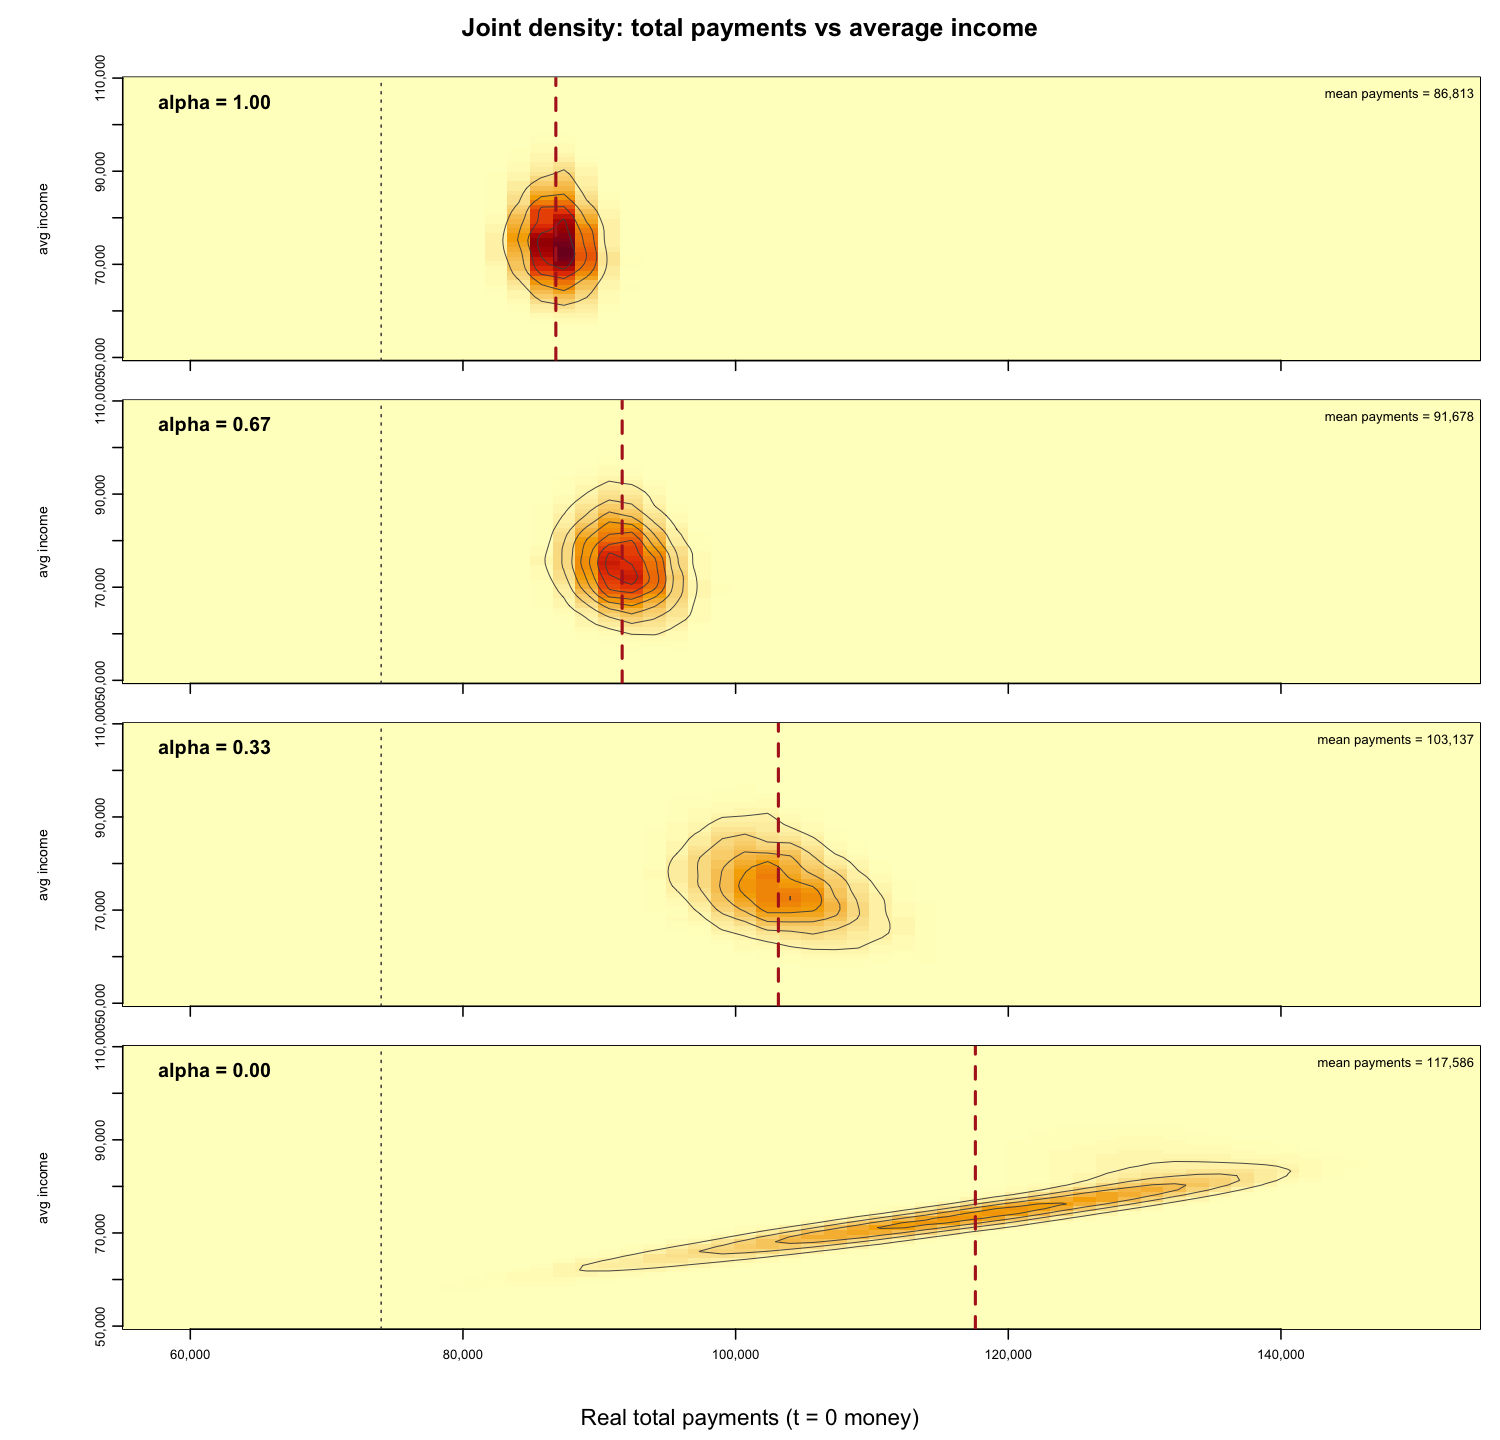
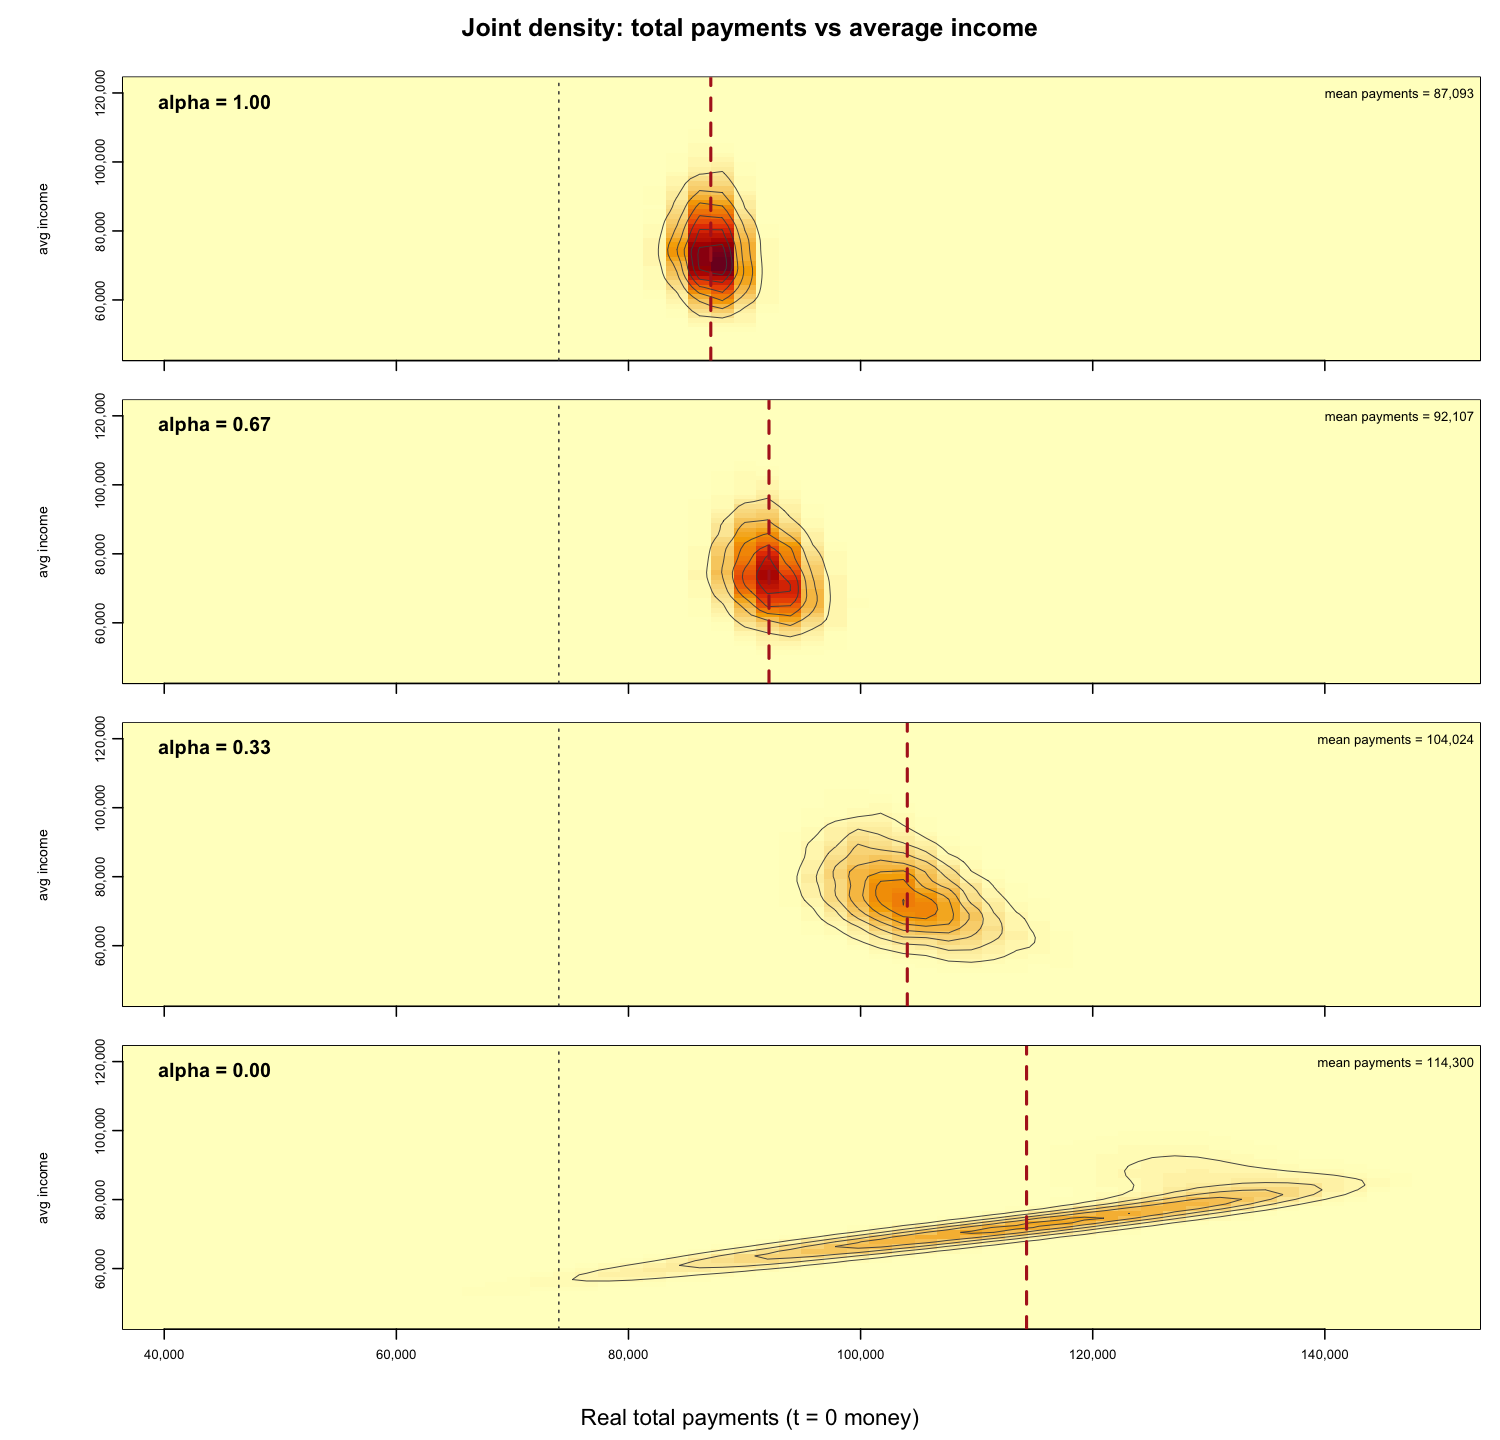
Add Schroedinger's Debt post

diff --git a/_posts/2026-10-18-schroedingers-debt.md b/_posts/2026-10-18-schroedingers-debt.md
@@ -11,7 +11,21 @@ output:
 
 ## Intro
 
-Your introduction here…
+When Erwin Schroedinger studied Physics at the early 20th century in
+Vienna, tuition fees, or what at the time was known as “Kollegiengeld”,
+for what would be the equivalent of today’s integrated master’s degree
+amounted to around 3’000 EUR - 5’000 EUR (inflation adjusted). Despite
+the Habsburg empire already nearing the later stages of its later
+decline, public finances still stretched far enough to make higher
+education accessible. Had he however been born between 1994 and 2003 in
+England, he would not been privy to the same priviledges and most likely
+would have been forced to become a recipient of the UK government’s Plan
+2 student loan.
+
+Upon completion of his studies he would have found himself in a similar
+situation to many graduates in England and Wales confronted with the
+deceptively simple question: should he pay off the loan as quickly as
+possible, or pay the minimum in accordance with his Plan 2 agreement?
 
 <figure>
 <img
@@ -119,21 +133,21 @@ Sensitivity of the results to the model parameters, by alpha.
 
 **Table 1**: Local sensitivity analysis (α = 0.67)
 
-| Indicator             |   Baseline | Sensitivity | per +1pp rho | per +1 yr T | per +5,000 I0 | per +10,000 down | per +0.5pp sav_rate | elast theta0 | elast rho0 | elast T | elast I0 | elast down | elast sav |
-|:----------------------|-----------:|------------:|-------------:|------------:|--------------:|-----------------:|--------------------:|-------------:|-----------:|--------:|---------:|-----------:|----------:|
-| mean_real_payments    |  89571.057 |      58.565 |     -200.280 |       0.000 |      -907.552 |        -1888.853 |                0.00 |        0.019 |     -0.020 |   0.000 |   -0.133 |     -0.011 |     0.000 |
-| p05_real_payments     |  85699.975 |      50.848 |     -168.567 |       0.000 |      -756.290 |        -1478.175 |                0.00 |        0.017 |     -0.018 |   0.000 |   -0.116 |     -0.009 |     0.000 |
-| p50_real_payments     |  89598.994 |      59.515 |     -201.313 |       0.000 |      -909.747 |        -1890.605 |                0.00 |        0.019 |     -0.020 |   0.000 |   -0.133 |     -0.011 |     0.000 |
-| p95_real_payments     |  93266.750 |      66.770 |     -235.965 |       0.000 |     -1068.351 |        -2325.485 |                0.00 |        0.021 |     -0.023 |   0.000 |   -0.150 |     -0.012 |     0.000 |
-| mean_payment_share    |      0.040 |       0.000 |        0.000 |      -0.002 |        -0.003 |           -0.001 |                0.00 |        0.019 |     -0.020 |  -1.316 |   -1.140 |     -0.011 |     0.000 |
-| prob_repaid           |      1.000 |       0.000 |        0.000 |       0.000 |         0.000 |            0.000 |                0.00 |        0.000 |      0.000 |   0.000 |    0.000 |      0.000 |     0.000 |
-| mean_payoff_year      |     10.588 |       0.038 |       -0.135 |       0.000 |        -0.604 |           -0.663 |                0.00 |        0.104 |     -0.115 |   0.000 |   -0.747 |     -0.031 |     0.000 |
-| mean_real_writeoff    |      0.000 |       0.000 |        0.000 |       0.000 |         0.000 |            0.000 |                0.00 |           NA |         NA |      NA |       NA |         NA |        NA |
-| mean_real_end_savings | 343331.653 |     -50.863 |      173.661 |   19264.497 |     20903.970 |         1684.267 |            19064.24 |       -0.004 |      0.005 |   1.683 |    0.798 |      0.002 |     0.444 |
-| prob_shortfall        |      0.000 |       0.000 |        0.000 |       0.000 |         0.000 |            0.000 |                0.00 |           NA |         NA |      NA |       NA |         NA |        NA |
+| Indicator             |   Baseline | Sensitivity | per +1pp rho | per +1 yr T | per +5,000 I0 | per +10,000 down | per +0.5pp sav_rate | elast theta0 | elast rho0 | elast T | elast I0 | elast sav |
+|:----------------------|-----------:|------------:|-------------:|------------:|--------------:|-----------------:|--------------------:|-------------:|-----------:|--------:|---------:|----------:|
+| mean_real_payments    |  92026.419 |      70.976 |     -241.093 |       0.000 |     -1064.766 |        -4038.223 |                   0 |        0.022 |     -0.024 |   0.000 |   -0.150 |     0.000 |
+| p05_real_payments     |  87546.309 |      59.365 |     -197.988 |       0.000 |      -877.620 |        -3127.332 |                   0 |        0.020 |     -0.020 |   0.000 |   -0.130 |     0.000 |
+| p50_real_payments     |  92012.189 |      71.561 |     -239.077 |       0.000 |     -1051.829 |        -4006.852 |                   0 |        0.023 |     -0.023 |   0.000 |   -0.149 |     0.000 |
+| p95_real_payments     |  96442.619 |      93.393 |     -281.276 |       0.000 |     -1275.965 |        -5032.544 |                   0 |        0.028 |     -0.026 |   0.000 |   -0.172 |     0.000 |
+| mean_payment_share    |      0.042 |       0.000 |        0.000 |      -0.002 |        -0.004 |           -0.002 |                   0 |        0.023 |     -0.024 |  -1.312 |   -1.158 |     0.000 |
+| prob_repaid           |      1.000 |       0.000 |        0.000 |       0.000 |         0.000 |            0.000 |                   0 |        0.000 |      0.000 |   0.000 |    0.000 |     0.000 |
+| mean_payoff_year      |     11.533 |       0.041 |       -0.154 |       0.000 |        -0.660 |           -1.396 |                   0 |        0.103 |     -0.120 |   0.000 |   -0.744 |     0.000 |
+| mean_real_writeoff    |      0.000 |       0.000 |        0.000 |       0.000 |         0.000 |            0.000 |                   0 |           NA |         NA |      NA |       NA |        NA |
+| mean_real_end_savings | 332805.586 |     -61.154 |      207.522 |   18962.129 |     20765.681 |         3585.646 |               18619 |       -0.005 |      0.006 |   1.709 |    0.811 |     0.448 |
+| prob_shortfall        |      0.000 |       0.000 |        0.000 |       0.000 |         0.000 |            0.000 |                   0 |           NA |         NA |      NA |       NA |        NA |
 
 <!--
 Render with:
-rmarkdown::render("The_SD_Dilemma.Rmd",
-  output_file = file.path(repo, "_posts", "2026-10-18-schroedingers-debt.md"))
+rmarkdown::render("The_SD_Dilemma_git2.0.Rmd",
+  output_file = path.expand("~/dev/actuarly/Actuarly.github.io/_posts/2026-10-18-schroedingers-debt.md"))
 -->
